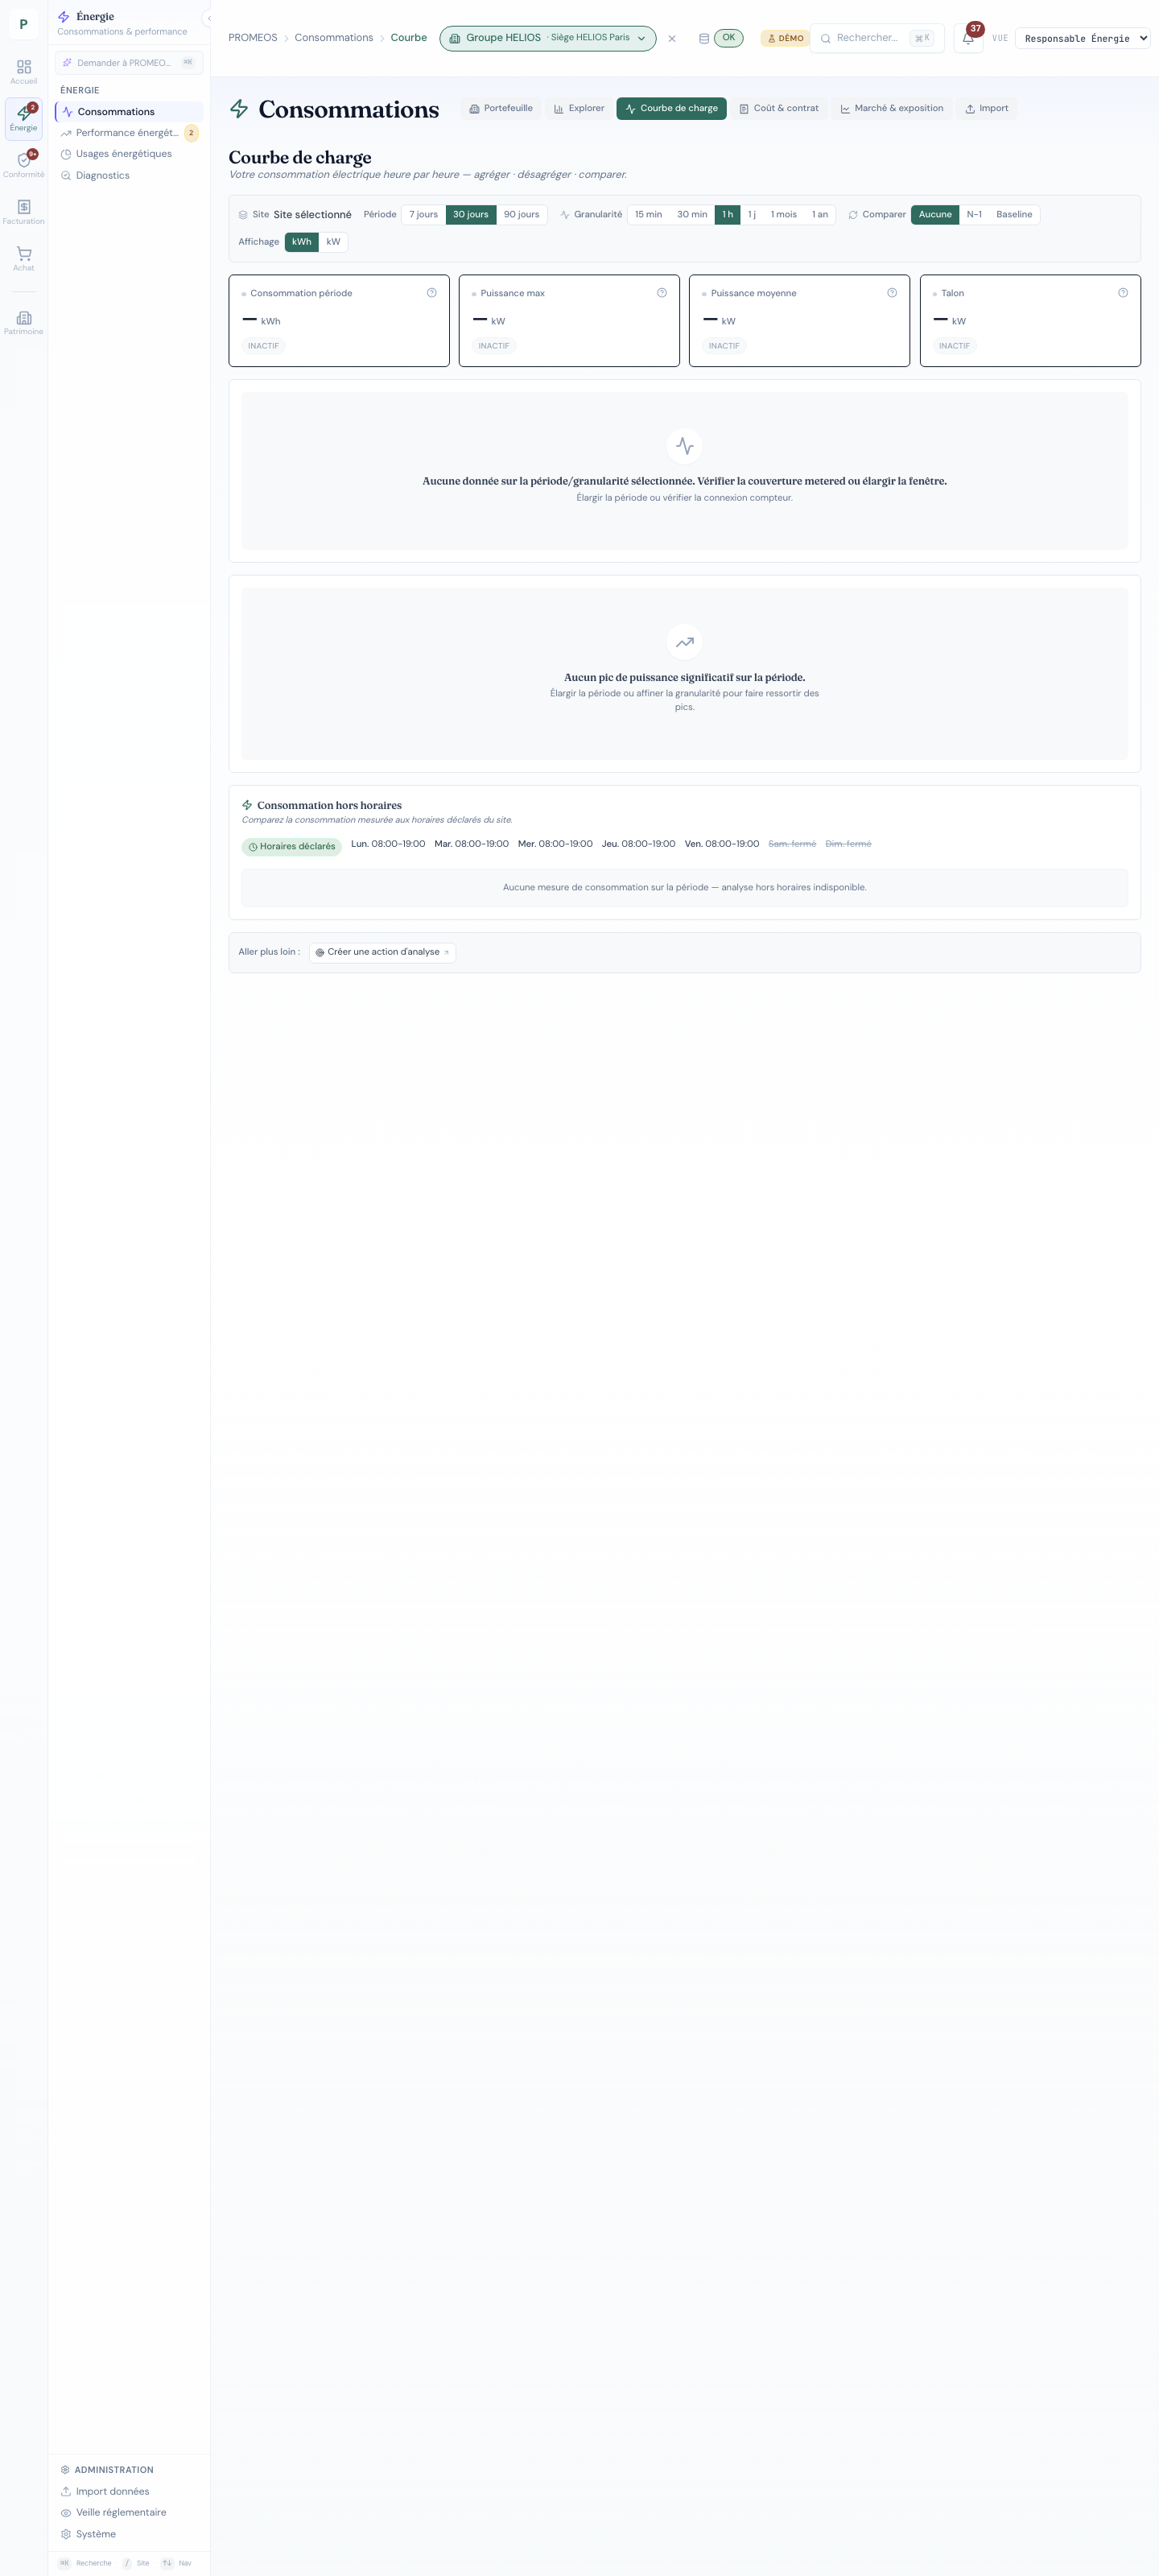
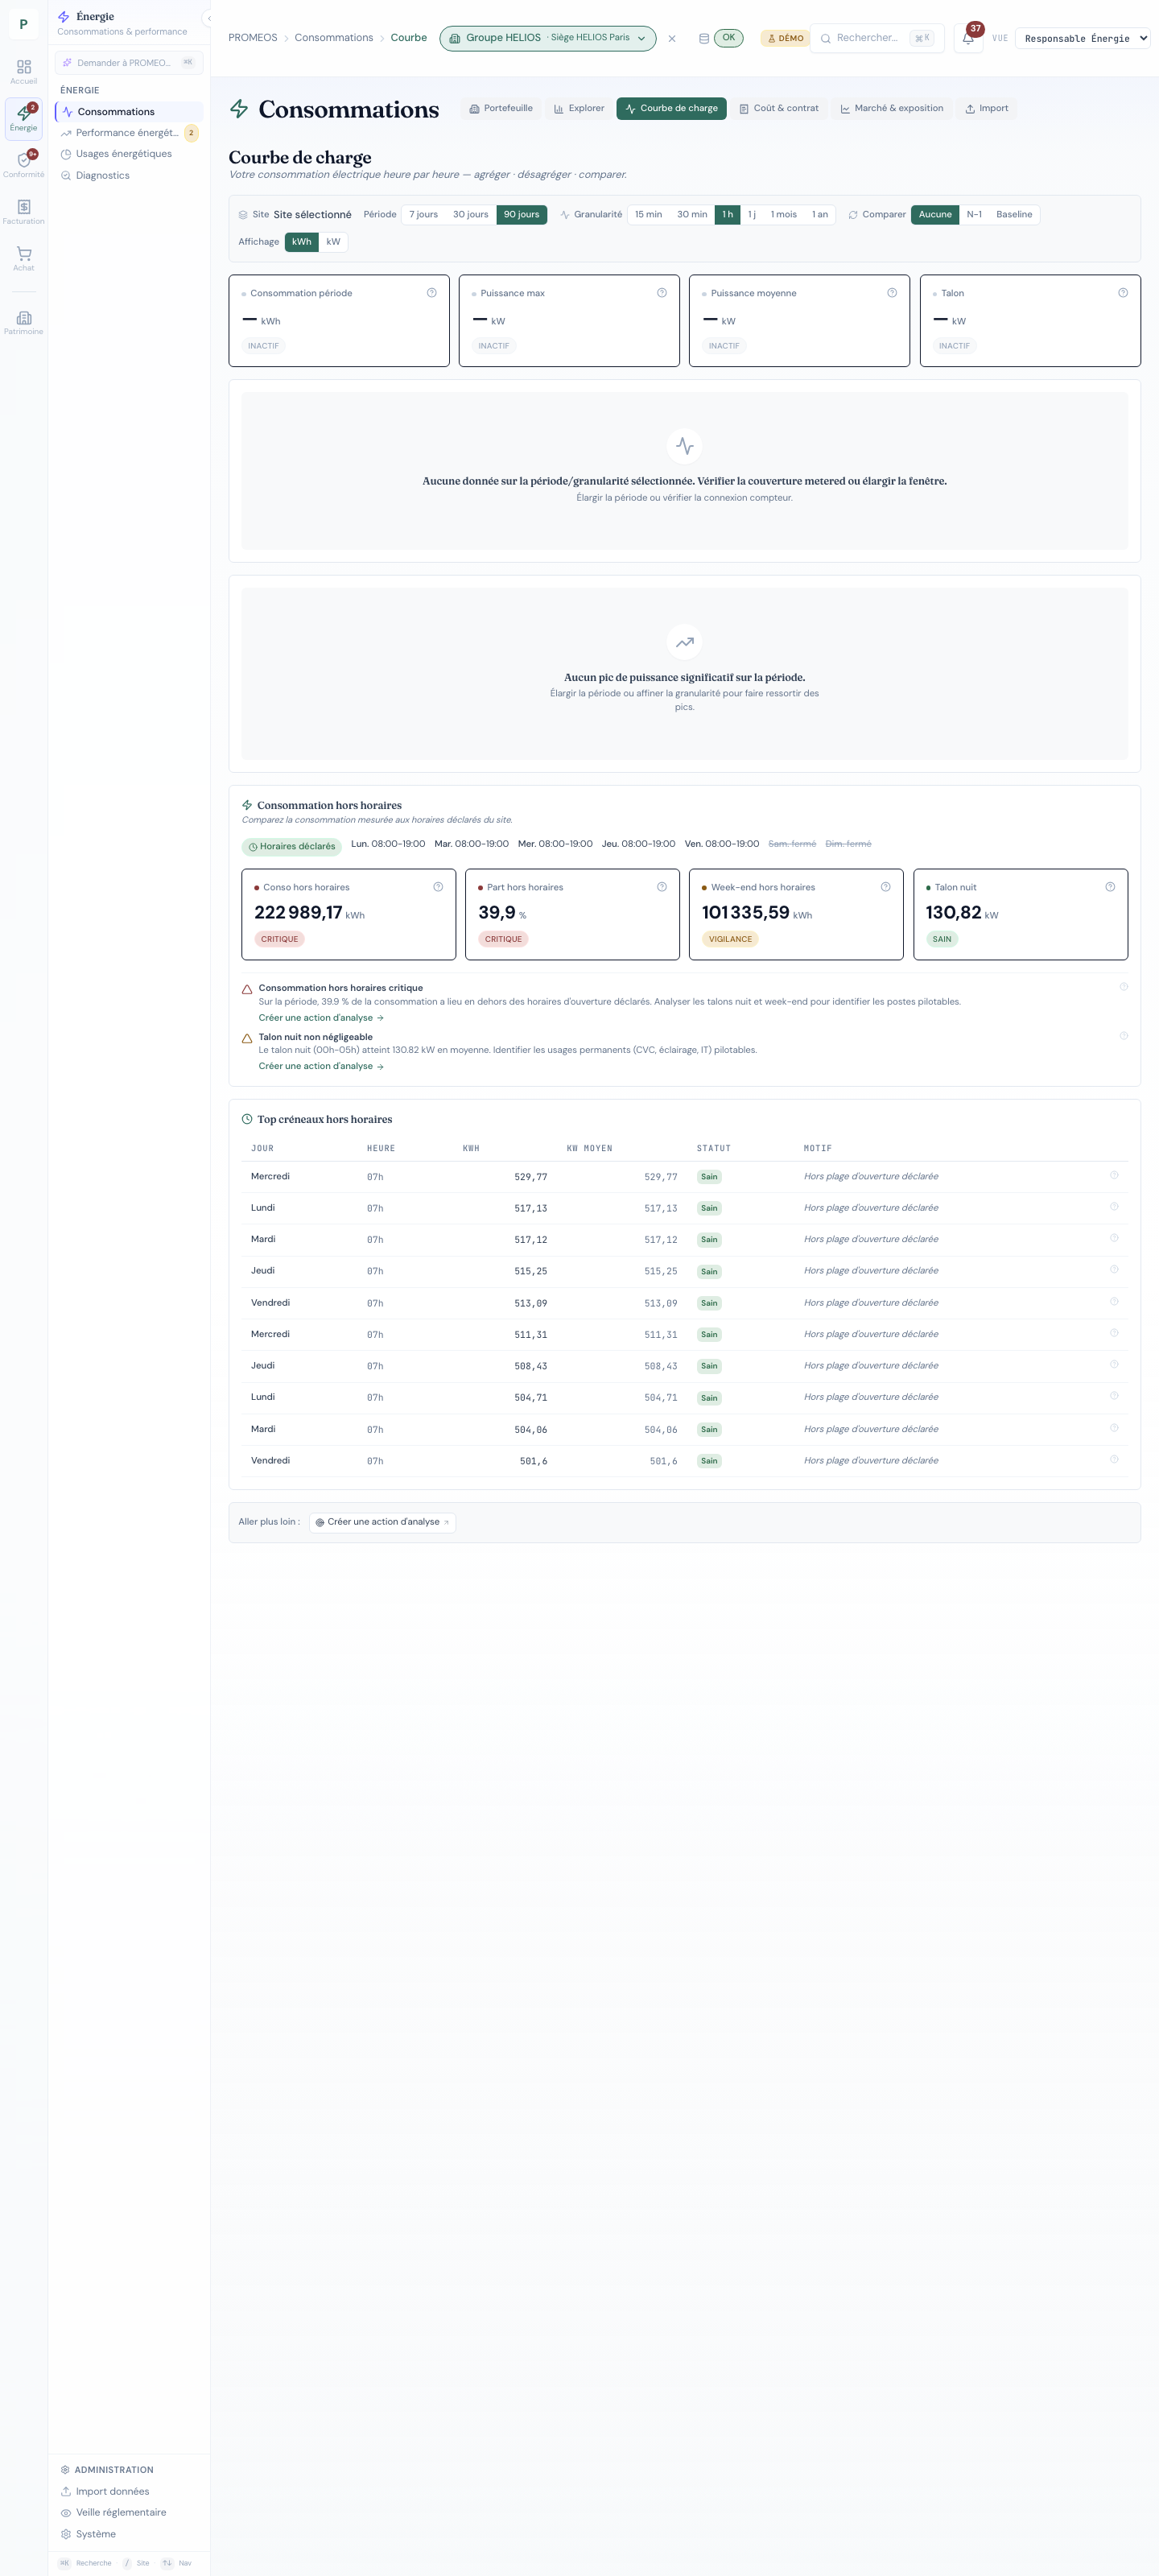
fix(energie-p3-2): aligner hors horaires sur periode courbe
Cause racine
- _aggregate_series du loadcurve (MVP P1.S2a) ne lit en granularité
  hour que le dernier jour de la fenêtre. Conséquence : avec from=
  2026-03-02 to=2026-05-31 hour, on lit seulement 31 mai → 0 points
  si le seed démo s'arrête fin avril → empty state visuel sur P3.2.
- Le frontend appelait déjà off-hours avec les mêmes from/to que
  loadcurve via periodToRange(filters.period), pas de hardcode now-30j ;
  c'est bien le backend qui ne couvrait pas la fenêtre.

Correction
- Backend (opening_hours_analysis.py uniquement, loadcurve P1.S2a intact)
  * Nouveau helper _aggregate_hourly_multi_day : boucle sur chaque jour
    de la fenêtre, charge la courbe horaire via le SoT
    consumption_granularity_service.get_org_hourly_curve_kw et concatène.
  * build_off_hours_analysis dispatche granularity=hour vers ce helper ;
    autres granularités → _aggregate_series canonique (pas de régression
    P3.1 / loadcurve).
- Frontend (LoadCurveTab.jsx)
  * Effect off-hours documenté : alignement strict sur period/from/to
    de loadcurve via periodToRange(filters.period).
  * Mapping granularité explicité : 15min/30min/hour transmis tels
    quels ; day/week/month/year forcés sur hour (analyse off-hours
    n'a de sens qu'en horaire) tout en gardant la même fenêtre period.

Preuve capture riche
- docs/audits/p3_2_off_hours/04_off_hours_doc_1440.png montre désormais
  pour Siège HELIOS Paris sur period=90d&granularity=hour :
[…]

diff --git a/frontend/src/__tests__/LoadCurveTab.test.jsx b/frontend/src/__tests__/LoadCurveTab.test.jsx
@@ -217,3 +217,105 @@ describe('LoadCurveTab — doctrine zéro calcul métier + routing', () => {
     expect(src).toMatch(/path=["']courbe["']/);
   });
 });
+
+import { getOffHoursAnalysis } from '../services/api/energy';
+
+describe('LoadCurveTab — hotfix P3.2 synchronisation période hors horaires', () => {
+  beforeEach(() => {
+    getEnergyLoadCurve.mockReset();
+    getOffHoursAnalysis.mockReset();
+    getOffHoursAnalysis.mockResolvedValue(null);
+  });
+  afterEach(() => cleanup());
+
+  it('Critère 1 : getOffHoursAnalysis appelé avec la période active (mêmes from/to que loadcurve)', async () => {
+    getEnergyLoadCurve.mockResolvedValueOnce(SAMPLE_PAYLOAD);
+    renderTab();
+    await waitFor(() => expect(getOffHoursAnalysis).toHaveBeenCalled());
+    const offArgs = getOffHoursAnalysis.mock.calls[0][0];
+    const lcArgs = getEnergyLoadCurve.mock.calls[0][0];
+    expect(offArgs.scope).toBe('site');
+    expect(offArgs.scope_id).toBe(42);
+    expect(offArgs.from).toBeTruthy();
+    expect(offArgs.to).toBeTruthy();
+    // Hotfix : mêmes from/to que loadcurve.
+    expect(offArgs.from).toBe(lcArgs.from);
+    expect(offArgs.to).toBe(lcArgs.to);
+  });
+
+  it('Critère 2 : sélectionner 90j au lieu de 30j modifie les params envoyés à off-hours', async () => {
+    getEnergyLoadCurve.mockResolvedValue(SAMPLE_PAYLOAD);
+    render(
+      <MemoryRouter initialEntries={['/consommations/courbe?period=90d']}>
+        <LoadCurveTab />
+      </MemoryRouter>
+    );
+    await waitFor(() => expect(getOffHoursAnalysis).toHaveBeenCalled());
+    const args = getOffHoursAnalysis.mock.calls[0][0];
+    const fromTs = new Date(args.from).getTime();
+    const toTs = new Date(args.to).getTime();
+    const spanDays = Math.round((toTs - fromTs) / 86400000);
+    // 90j ± 1 (tolérance arrondi DST)
+    expect(spanDays).toBeGreaterThanOrEqual(89);
+    expect(spanDays).toBeLessThanOrEqual(91);
+  });
+
+  it('Critère 3 : early-return si pas de site sélectionné (vérification statique)', () => {
+    const { readFileSync } = require('fs');
+    const { resolve } = require('path');
+    const src = readFileSync(resolve(__dirname, '../pages/consumption/LoadCurveTab.jsx'), 'utf8');
+    // L'effect off-hours commence par un early-return si !selectedSiteId.
+    // Dynamic mock-then-reimport est instable sous vitest+jsdom ;
+    // on vérifie la garde dans le source du composant à la place.
+    expect(src).toMatch(
+      /if\s*\(\s*!selectedSiteId\s*\)\s*\{\s*setOffHoursPayload\s*\(\s*null\s*\)\s*;\s*return/
+    );
+  });
+
+  it('Critère 4 : empty state propre si payload off-hours porte empty_state (horaires absents)', async () => {
+    getEnergyLoadCurve.mockResolvedValueOnce(SAMPLE_PAYLOAD);
+    getOffHoursAnalysis.mockResolvedValueOnce({
+      scope: { kind: 'site', id: 42, org_id: 1 },
+      period: { label: 'custom', timezone: 'Europe/Paris' },
+      schedule: {
+        timezone: 'Europe/Paris',
+        source: 'missing',
+        weekly_schedule: [],
+        exceptions: [],
+        provenance: {
+          source: 'PROMEOS energy_orchestration',
+          service: 'energy_orchestration.opening_hours_analysis._missing_schedule',
+          formula: '-',
+          period: '-',
+          confidence: 0,
+          assumptions: [],
+        },
+      },
+      kpis: {},
+      slots: [],
+      top_off_hours: [],
+      recommendations: [],
+      warnings: [],
+      empty_state: "Horaires d'ouverture non renseignés pour ce site.",
+      provenance: {
+        source: 'PROMEOS energy_orchestration',
+        service: 'energy_orchestration.opening_hours_analysis.build_off_hours_analysis',
+        formula: '-',
+        period: '-',
+        confidence: 0,
+        assumptions: [],
+      },
+    });
+    renderTab();
+    await waitFor(() => screen.getByTestId('off-hours-empty-state'));
+    expect(screen.getByText(/Horaires d'ouverture non renseignés/)).toBeTruthy();
+  });
+
+  it('Critère doctrinal : LoadCurveTab ne calcule aucune part hors horaires côté FE', () => {
+    const { readFileSync } = require('fs');
+    const { resolve } = require('path');
+    const src = readFileSync(resolve(__dirname, '../pages/consumption/LoadCurveTab.jsx'), 'utf8');
+    expect(src).not.toMatch(/off_hours_share\s*=\s*\w+\s*\/\s*\w+\s*\*/);
+    expect(src).not.toMatch(/off_hours_kwh\s*=\s*\w+\.reduce/);
+  });
+});

diff --git a/e2e/p3_off_hours_analysis.spec.js b/e2e/p3_off_hours_analysis.spec.js
@@ -59,11 +59,13 @@ test.beforeAll(() => {
 });
 
 test.describe('P3.2 — Consommation hors horaires desktop 1440', () => {
-  test('01 — section « Consommation hors horaires » visible', async ({ page }) => {
+  test('01 — section « Consommation hors horaires » visible (90d hour pour seed démo)', async ({ page }) => {
     await page.setViewportSize({ width: 1440, height: 900 });
     await login(page);
-    // period=30d + hour pour aligner sur le seed démo (avril 2026).
-    await page.goto(`${FRONTEND_URL}/consommations/courbe?period=30d&granularity=hour`, {
+    // Hotfix capture riche : period=90d couvre le seed démo (avril 2026)
+    // et le helper backend P3.2 _aggregate_hourly_multi_day lit toute la
+    // fenêtre — l'analyse expose KPI réels, top créneaux et recommandations.
+    await page.goto(`${FRONTEND_URL}/consommations/courbe?period=90d&granularity=hour`, {
       waitUntil: 'load',
     });
     await page.waitForTimeout(5_000);
@@ -78,7 +80,7 @@ test.describe('P3.2 — Consommation hors horaires desktop 1440', () => {
   test('02 — microcopy FR + KPI + CTA Centre d\'action', async ({ page }) => {
     await page.setViewportSize({ width: 1440, height: 900 });
     await login(page);
-    await page.goto(`${FRONTEND_URL}/consommations/courbe?period=30d&granularity=hour`, {
+    await page.goto(`${FRONTEND_URL}/consommations/courbe?period=90d&granularity=hour`, {
       waitUntil: 'load',
     });
     await page.waitForTimeout(5_000);
@@ -99,6 +101,16 @@ test.describe('P3.2 — Consommation hors horaires desktop 1440', () => {
 
     // CTA Centre d'action présent (au moins via cross-link existant)
     expect(body).toContain("Créer une action d'analyse");
+
+    // Hotfix P3.2 — capture riche : KPI, top créneaux, recommandations
+    // doivent être effectivement rendus sur la fenêtre 90j qui couvre
+    // le seed démo (site=1 ~27 % off, 12 slots, 2 recos selon API).
+    await expect(page.getByTestId('kpi-off-hours-kwh')).toBeVisible({ timeout: 10_000 });
+    await expect(page.getByTestId('kpi-off-hours-share-pct')).toBeVisible();
+    await expect(page.getByTestId('kpi-weekend-off-hours-kwh')).toBeVisible();
+    await expect(page.getByTestId('kpi-night-baseload-kw')).toBeVisible();
+    await expect(page.getByTestId('off-hours-recommendations')).toBeVisible();
+    await expect(page.getByTestId('off-hours-slots-table')).toBeVisible();
   });
 
   test('03 — rail Énergie inchangé après P3.2', async ({ page }) => {
@@ -117,7 +129,7 @@ test.describe('P3.2 — Consommation hors horaires desktop 1440', () => {
   test('04 — capture pleine page documentaire 1440', async ({ page }) => {
     await page.setViewportSize({ width: 1440, height: 3200 });
     await login(page);
-    await page.goto(`${FRONTEND_URL}/consommations/courbe?period=30d&granularity=hour`, {
+    await page.goto(`${FRONTEND_URL}/consommations/courbe?period=90d&granularity=hour`, {
       waitUntil: 'load',
     });
     await page.waitForTimeout(5_000);

diff --git a/frontend/src/pages/consumption/LoadCurveTab.jsx b/frontend/src/pages/consumption/LoadCurveTab.jsx
@@ -166,7 +166,15 @@ export default function LoadCurveTab() {
     // eslint-disable-next-line react-hooks/exhaustive-deps
   }, [selectedSiteId, filters.period, filters.granularity, filters.compare, reloadToken]);
 
-  // Sprint Énergie P3.2 — analyse hors horaires (endpoint dédié)
+  // Sprint Énergie P3.2 — analyse hors horaires (endpoint dédié).
+  // Hotfix : on aligne strictement les paramètres période sur ceux de
+  // /api/energy/loadcurve (mêmes `from`/`to` issus de `periodToRange`)
+  // pour qu'une sélection 7d/30d/90d dans le filterbar se reflète
+  // identiquement dans l'analyse hors horaires.
+  // Granularité : l'analyse hors horaires n'a de sens qu'en horaire
+  // (un point/jour à minuit fausserait la classification).
+  // - 15min/30min/hour → transmis tels quels
+  // - day/week/month/year → forcé sur hour (la fenêtre est inchangée)
   useEffect(() => {
     if (!selectedSiteId) {
       setOffHoursPayload(null);
@@ -175,12 +183,19 @@ export default function LoadCurveTab() {
     let cancelled = false;
     setOffHoursLoading(true);
     const { from, to } = periodToRange(filters.period);
+    const offHoursGranularity =
+      filters.granularity === 'day' ||
+      filters.granularity === 'week' ||
+      filters.granularity === 'month' ||
+      filters.granularity === 'year'
+        ? 'hour'
+        : filters.granularity;
     getOffHoursAnalysis({
       scope: 'site',
       scope_id: selectedSiteId,
       from,
       to,
-      granularity: filters.granularity === 'day' ? 'hour' : filters.granularity,
+      granularity: offHoursGranularity,
     })
       .then((data) => {
         if (!cancelled) setOffHoursPayload(data);

diff --git a/backend/services/energy_orchestration/opening_hours_analysis.py b/backend/services/energy_orchestration/opening_hours_analysis.py
@@ -20,7 +20,7 @@ Doctrine cardinale :
 from __future__ import annotations
 
 import json
-from datetime import datetime, time
+from datetime import datetime, time, timedelta
 from typing import Optional
 
 from sqlalchemy.orm import Session
@@ -57,6 +57,54 @@ _DEFAULT_GRANULARITY = "hour"
 _MAX_TOP_OFF_HOURS = 10
 # Seuil anti-bruit : un point < 0.1 kWh est considéré comme bruit ; non comptabilisé.
 _NOISE_KWH_THRESHOLD = 0.1
+
+
+# ── Helpers série multi-jours horaire ──────────────────────────────────
+
+
+def _aggregate_hourly_multi_day(
+    db: Session, scope: EnergyScope, from_dt: datetime, to_dt: datetime
+) -> tuple[list[EnergyLoadCurvePoint], list[str]]:
+    """Charge la courbe horaire pour CHAQUE jour de la fenêtre.
+
+    Hotfix P3.2 — `_aggregate_series` du loadcurve (MVP P1.S2a) ne lit
+    en granularité hour QUE le dernier jour de la fenêtre. C'est
+    insuffisant pour analyser des fenêtres multi-jours d'horaires.
+    Ce helper interne P3.2 boucle sur tous les jours et concatène,
+    SANS modifier le service loadcurve (zéro régression P3.1).
+    """
+    points: list[EnergyLoadCurvePoint] = []
+    warnings: list[str] = []
+    try:
+        from services.consumption_granularity_service import (
+            get_org_hourly_curve_kw,
+        )
+    except ImportError:
+        return points, warnings
+
+    current = from_dt.date()
+    end = to_dt.date()
+    while current <= end:
+        try:
+            curve = get_org_hourly_curve_kw(db, scope.org_id, current)
+        except Exception:
+            curve = []
+        for p in curve:
+            kw = p.get("kw")
+            if kw is None:
+                continue
+            ts = datetime.combine(current, datetime.min.time()).replace(tzinfo=TZ_PARIS, hour=p["hour"])
+            # En hour : kw_avg = kw, kwh = kw × 1h.
+            points.append(
+                EnergyLoadCurvePoint(
+                    timestamp=ts,
+                    kwh=round(float(kw), 2),
+                    kw_avg=round(float(kw), 2),
+                    quality_status="measured",
+                )
+            )
+        current += timedelta(days=1)
+    return points, warnings
 
 
 # ── Helpers schedule ────────────────────────────────────────────────────
@@ -625,7 +673,15 @@ def build_off_hours_analysis(
             ),
         )
 
-    series, warnings = _aggregate_series(db, scope, from_dt, to_dt, granularity)
+    # Hotfix P3.2 — granularité hour multi-jours : `_aggregate_series`
+    # (MVP P1.S2a) ne lit que le dernier jour ; on bascule sur un
+    # helper P3.2-local pour charger toute la fenêtre. Les autres
+    # granularités (day/week/month/year) restent gérées par le service
+    # canonique loadcurve (pas de régression).
+    if granularity == "hour":
+        series, warnings = _aggregate_hourly_multi_day(db, scope, from_dt, to_dt)
+    else:
+        series, warnings = _aggregate_series(db, scope, from_dt, to_dt, granularity)
 
     if not series:
         return OffHoursAnalysisResponse(

diff --git a/backend/tests/api/test_energy_off_hours_analysis_endpoint.py b/backend/tests/api/test_energy_off_hours_analysis_endpoint.py
@@ -436,6 +436,36 @@ class TestBuildResponseFull:
                 granularity="hour",
             )
 
+    def test_aggregate_hourly_multi_day_concatenates_window(self, db_empty, monkeypatch):
+        """Hotfix P3.2 — granularity=hour multi-jours charge TOUS les jours.
+
+        Cause racine : `_aggregate_series` du loadcurve (MVP P1.S2a) ne
+        lit que le dernier jour ; on bascule sur un helper P3.2-local
+        qui boucle sur tous les jours de la fenêtre.
+        """
+        called_dates: list = []
+
+        def fake_hourly_curve(db, org_id, day, *args, **kwargs):
+            called_dates.append(day)
+            return [{"hour": h, "kw": 100.0} for h in range(24)]
+
+        import services.consumption_granularity_service as svc
+
+        monkeypatch.setattr(svc, "get_org_hourly_curve_kw", fake_hourly_curve)
+        from services.energy_orchestration.opening_hours_analysis import (
+            _aggregate_hourly_multi_day,
+        )
+        from schemas.energy_orchestration import EnergyScope
+
+        scope = EnergyScope(kind="site", id=1, org_id=1)
+        from_dt = datetime(2026, 4, 1, tzinfo=TZ_PARIS)
+        to_dt = datetime(2026, 4, 8, tzinfo=TZ_PARIS)  # 8 jours
+        points, _w = _aggregate_hourly_multi_day(db_empty, scope, from_dt, to_dt)
+        # 8 jours × 24 heures = 192 points
+        assert len(points) == 8 * 24
+        # 8 dates distinctes chargées
+        assert len(set(called_dates)) == 8
+
     def test_zero_total_does_not_divide_by_zero(self, db_empty):
         """Share = None si total = 0, jamais d'exception."""
         _seed_schedule(db_empty)